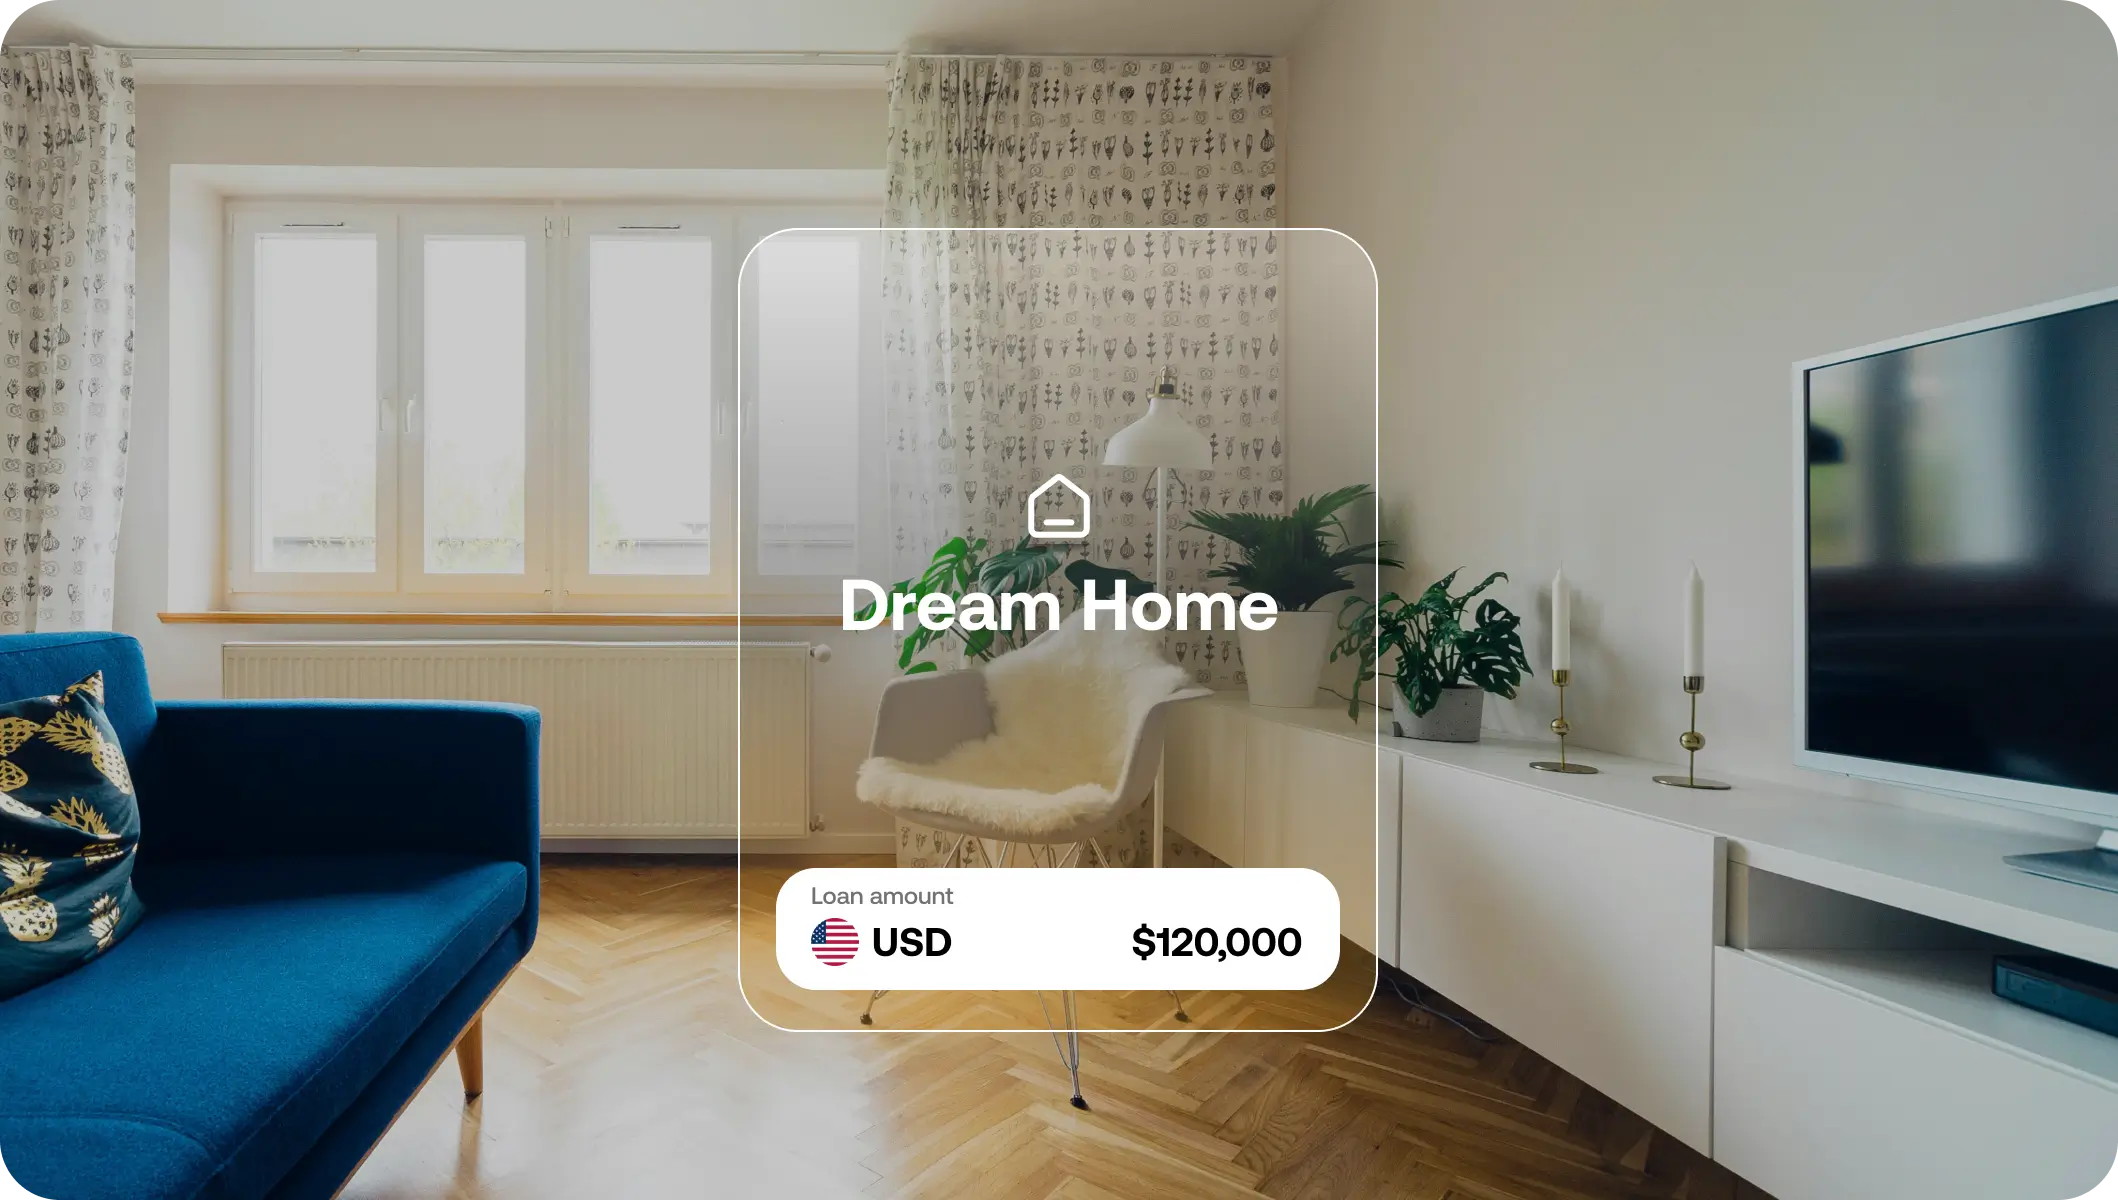
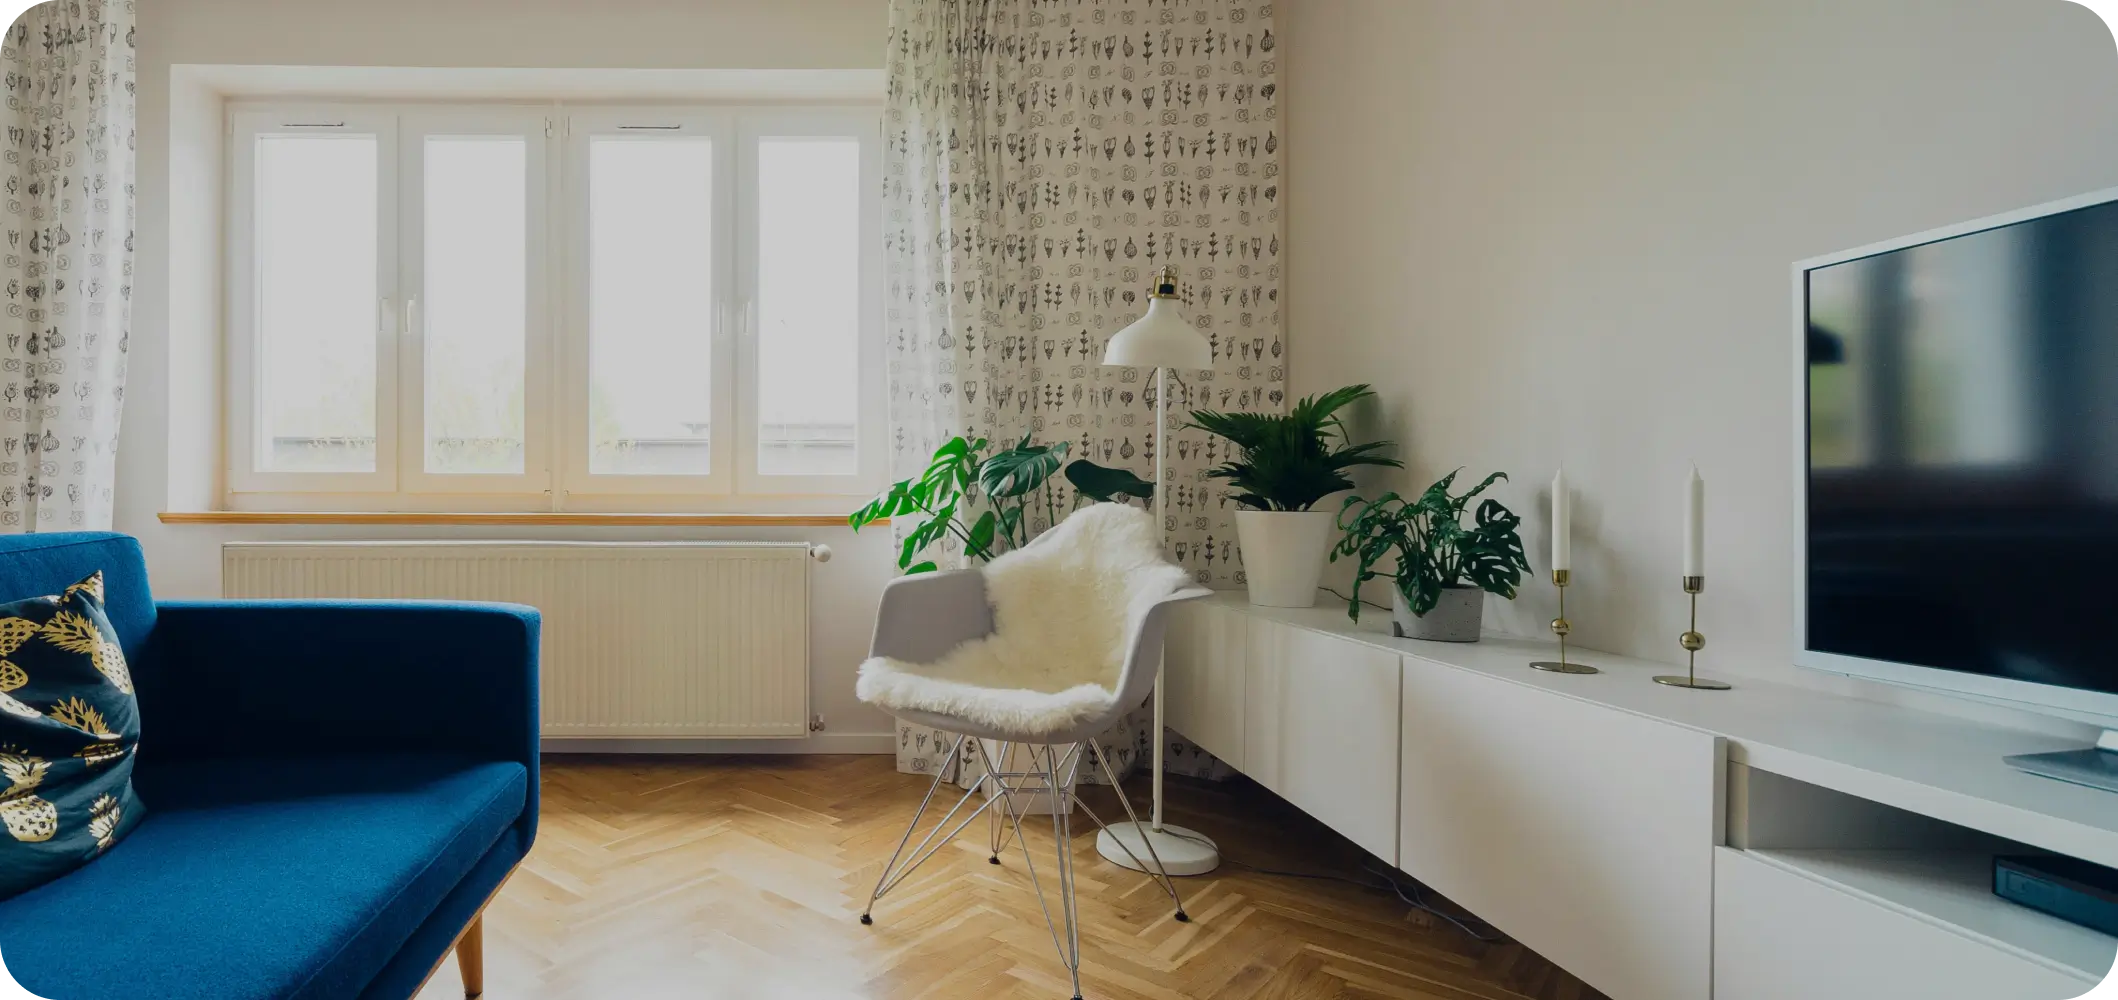
remove SectionEight component and update related sections; replace dream-home image with homepage-crossborder image

diff --git a/app/homepage/SectionFive.js b/app/homepage/SectionFive.js
@@ -1,39 +1,69 @@
-import React from 'react';
-import backgroundImage from '@/public/homepage-crossborder.webp';
-import sectionImage from '@/public/homepage-crossborder.webp';
-import Link from 'next/link';
-import Image from 'next/image';
+'use client';
 
+import React, { useEffect, useState } from 'react';
+import backgroundImage from '@/public/dream-home.webp';
+import Link from 'next/link';
 
 const SectionFive = () => {
+    const [offsetY, setOffsetY] = useState(0);
+
+    useEffect(() => {
+        const handleScroll = () => {
+            const scrollY = window.scrollY;
+            const section = document.getElementById('section-five');
+            if (!section) return;
+
+            const sectionTop = section.offsetTop;
+            const sectionHeight = section.offsetHeight;
+
+            // Only trigger parallax effect when scrolling in this section's range
+            if (scrollY >= sectionTop - window.innerHeight && scrollY <= sectionTop + sectionHeight) {
+                setOffsetY((scrollY - sectionTop) * 0.1); // Adjusted for subtle movement
+            }
+        };
+
+        window.addEventListener('scroll', handleScroll);
+        return () => window.removeEventListener('scroll', handleScroll);
+    }, []);
+
     return (
-        <section className='relative pt-14 pb-14 lg:pt-28 lg:pb-20 min-h-[calc(130vh-var(--mobile-header-height))] lg:min-h-[calc(100vh-var(--mobile-header-height))] flex flex-col lg:justify-center  bg-black text-white overflow-x-hidden'>
-            {/* <Image fill placeholder='blur' quality={100} sizes='100vw' src={backgroundImage} className='object-cover w-full h-full z-0' alt="Background Image" /> */}
-            <video className='hidden lg:block w-full h-full objectcover absolute top-0 left-0' width="100%" playsInline autoPlay muted loop controls={false}>
-                <source src='/sectionfourvideo.mp4' type="video/mp4" />
-                Your browser does not support the video tag.
-            </video>
-
-            <video className='block lg:hidden w-full absolute bottom-0 left-0' width="100%" playsInline autoPlay muted loop controls={false}>
-                <source src='/sectionfourvideo-mobile.mp4' type="video/mp4" />
-                Your browser does not support the video tag.
-            </video>
-
-            <div className='container md:flex md:items-center gap-10 relative z-10'>
-                <div className='flex justify-start'>
-                    <div className='p-4 md:p-0 md:w-[45%]'>
-                        <h2 className='uppercase font-black text-3xl sm:text-5xl md:text-[2.875rem] leading-none'>SEND MONEY ACROSS THE GLOBE WITH EASE</h2>
-                        <p className='leading-8 mt-8'>Join MyMonty's expat community and enjoy free P2P transfers to 160+ countries. Instantly send and receive money; globally, effortlessly.</p>
-                        <Link href="/transfers" className='mm-button white mt-8 mx-auto mb-10'>Try it Out</Link>
-                    </div>
-
+        <section
+            id="section-five"
+            className="bg-white pt-14 pb-14 lg:pt-28 lg:pb-20"
+        >
+            {/* Content */}
+            <div className="relative z-10 text-center px-4 h-full">
+                <div className='lg:w-1/2 mx-auto'>
+                    <h2 className="uppercase text-black font-black text-3xl sm:text-5xl md:text-[2.875rem] leading-none">
+                    TURN YOUR DREAM HOME INTO REALITY
+                    </h2>
+                    <p className="leading-8 mt-8 text-black">
+                    With MyMonty's house loans, your dream of owning a home is within reach. 
+                    Get the financial foundation you need for your perfect <span class="font-bold">HOME</span>.
+                    </p>
+                    <Link href="/loans" className="mm-button mt-8 mx-auto">
+                        Learn More
+                    </Link>
                 </div>
-                {/* <div className='justify-end flex pb-10 md:pb-0'>
-                    <Image src={sectionImage} alt='Section Image' placeholder='blur' className='w-full md:w-4/4 translate-x-[20%] 4xl:translate-x-0' />
-                </div> */}
+                <div className='container'>
+                    <div class="relative bg-black h-[500px] overflow-hidden rounded-3xl mt-12">
+                        <div
+                            className="absolute w-full h-[130%] bg-bottom z-0 will-change-transform"
+                            style={{
+                                backgroundImage: `url(${backgroundImage.src})`,
+                                transform: `translateY(${offsetY}px) scale(1.2)`,  // Parallax movement
+                                transition: 'transform 0.1s ease-out',
+                            }}
+                        ></div>
+
+                        <div className="absolute top-1/2 -translate-y-1/2 left-1/2 -translate-x-1/2 w-[300px] ">
+                            <img src='/sectionfive.webp' alt='Section Six Image' />
+                        </div>
+                    </div>
+                </div>
             </div>
         </section>
-    )
-}
+    );
+};
 
 export default SectionFive;

diff --git a/app/homepage/SectionSeven.js b/app/homepage/SectionSeven.js
@@ -1,26 +1,65 @@
-import React from 'react';
+'use client';
+
+import React, { useEffect, useState } from 'react';
+import backgroundImage from '@/public/sectionsixbg2.webp';
+import image1 from '@/public/sectionsix.webp';
+import Link from 'next/link';
 
 const SectionSeven = () => {
+    const [offsetY, setOffsetY] = useState(0);
+
+    useEffect(() => {
+        const handleScroll = () => {
+            const scrollY = window.scrollY;
+            const section = document.getElementById('section-six');
+            if (!section) return;
+
+            const sectionTop = section.offsetTop;
+            const sectionHeight = section.offsetHeight;
+
+            // Only trigger parallax effect when scrolling in this section's range
+            if (scrollY >= sectionTop - window.innerHeight && scrollY <= sectionTop + sectionHeight) {
+                setOffsetY((scrollY - sectionTop) * 0.1); // Adjusted for subtle movement
+            }
+        };
+
+        window.addEventListener('scroll', handleScroll);
+        return () => window.removeEventListener('scroll', handleScroll);
+    }, []);
+
     return (
-        <section className='pt-14 pb-14 lg:pt-40 lg:pb-40 bg-black text-white'>
-            <div className='container'>
-                <div className='flex flex-col-reverse gap-10 md:flex-row md:items-center md:gap-20'>
-                    <div className='relative section-video flex-1'>
-                        <video className=' mb-6' width="100%" playsInline autoPlay muted loop controls={false}>
-                            <source src='/rotating-card-2.mp4' type="video/mp4" />
-                            Your browser does not support the video tag.
-                        </video>
-                    </div>
-                    <div className='flex-1 flex justify-end'>
-                        <div>
-                            <h2 className='uppercase font-black text-3xl sm:text-5xl md:text-[2.875rem] leading-none'>HOLDING IT DOWN WITH OUR PREMIUM CARD?</h2>
-                            <p className='leading-8 mt-8'>Opt for our Premium Mastercard to elevate your style with a sleek design and exclusive benefits. Turn heads and add sophistication to your wallet experience.</p>
-                        </div>
-                    </div>
+        <section
+            id="section-six"
+            className="relative min-h-[calc(100vh-var(--mobile-header-height))] flex justify-center text-white overflow-hidden"
+        >
+            {/* Parallax Background Image */}
+            <div
+                className="absolute top-[-10%] left-0 w-full h-[120%] bg-cover bg-center z-0 will-change-transform"
+                style={{
+                    backgroundImage: `url(${backgroundImage.src})`,
+                    transform: `translateY(${offsetY}px)`,  // Parallax movement
+                    transition: 'transform 0.1s ease-out',
+                }}
+            />
+
+            {/* Content */}
+            <div className="pt-16 container relative z-10 text-center px-4">
+                <div className='lg:w-1/2 mx-auto'>
+                    <h2 className="uppercase text-black font-black text-3xl sm:text-5xl md:text-[2.875rem] leading-none">
+                        SET IT AND FORGET IT: PAYMENTS MADE EASY
+                    </h2>
+                    <p className="leading-8 mt-8 text-black">
+                        Never miss a payment again with our scheduled and recurring payment options. Enjoy peace of mind and stay on top of your finances.
+                    </p>
+                    <Link href="/payments" className="mm-button mt-8 mx-auto">
+                        Try It Out
+                    </Link>
+                    <img className='w-1/2 mt-24 mx-auto' src='/sectionsix.webp' alt='Section Six Image' />
                 </div>
+                
             </div>
         </section>
-    )
-}
+    );
+};
 
 export default SectionSeven;

diff --git a/app/homepage/SectionFour.js b/app/homepage/SectionFour.js
@@ -1,24 +1,36 @@
 import React from 'react';
-import sectionImage from '@/public/dream-home.webp';
+import backgroundImage from '@/public/homepage-crossborder.webp';
+import sectionImage from '@/public/homepage-crossborder.webp';
 import Link from 'next/link';
 import Image from 'next/image';
 
 
 const SectionFour = () => {
     return (
-        <section className='bg-white pt-14 pb-14 lg:pt-28 lg:pb-28'>
-            <div className='container text-center'>
-                <h2 className='uppercase font-black text-3xl sm:text-5xl md:text-[2.875rem] leading-none'>TURN YOUR DREAM HOME INTO REALITY</h2>
-                <div className='lg:w-1/2 mx-auto'>
-                    <p className='leading-8 mt-8'>With MyMonty's house loans, your dream of owning a home is within reach. 
-                    Get the financial foundation you need for your perfect <span class="font-bold">HOME</span>.</p>
-                </div>
-                <Link href="/loans" className='mm-button black mt-8 mx-auto mb-10'>Learn More</Link>
-                
-                <div className='text-center'>
-                    <Image alt="Section Image" src={sectionImage} className='mx-auto mt-14' />
-                </div>
+        <section className='relative pt-14 pb-14 lg:pt-28 lg:pb-20 min-h-[calc(130vh-var(--mobile-header-height))] lg:min-h-[calc(100vh-var(--mobile-header-height))] flex flex-col lg:justify-center  bg-black text-white overflow-x-hidden'>
+            {/* <Image fill placeholder='blur' quality={100} sizes='100vw' src={backgroundImage} className='object-cover w-full h-full z-0' alt="Background Image" /> */}
+            <video className='hidden lg:block w-full h-full objectcover absolute top-0 left-0' width="100%" playsInline autoPlay muted loop controls={false}>
+                <source src='/sectionfourvideo.mp4' type="video/mp4" />
+                Your browser does not support the video tag.
+            </video>
 
+            <video className='block lg:hidden w-full absolute bottom-0 left-0' width="100%" playsInline autoPlay muted loop controls={false}>
+                <source src='/sectionfourvideo-mobile.mp4' type="video/mp4" />
+                Your browser does not support the video tag.
+            </video>
+
+            <div className='container md:flex md:items-center gap-10 relative z-10'>
+                <div className='flex justify-start'>
+                    <div className='p-4 md:p-0 md:w-[45%]'>
+                        <h2 className='uppercase font-black text-3xl sm:text-5xl md:text-[2.875rem] leading-none'>SEND MONEY ACROSS THE GLOBE WITH EASE</h2>
+                        <p className='leading-8 mt-8'>Join MyMonty's expat community and enjoy free P2P transfers to 160+ countries. Instantly send and receive money; globally, effortlessly.</p>
+                        <Link href="/transfers" className='mm-button white mt-8 mx-auto mb-10'>Try it Out</Link>
+                    </div>
+
+                </div>
+                {/* <div className='justify-end flex pb-10 md:pb-0'>
+                    <Image src={sectionImage} alt='Section Image' placeholder='blur' className='w-full md:w-4/4 translate-x-[20%] 4xl:translate-x-0' />
+                </div> */}
             </div>
         </section>
     )

diff --git a/app/homepage/SectionSix.js b/app/homepage/SectionSix.js
@@ -1,28 +1,22 @@
 import React from 'react';
-import backgroundImage from '@/public/sectionsixbg.webp';
-import backgroundImage1 from '@/public/sectionsixbg1.webp';
-import Link from 'next/link';
-import Image from 'next/image';
 
 const SectionSix = () => {
     return (
-        <section className='flex items-center pb-14 pt-14 lg:pt-20 lg:pb-20 bg-black relative text-black min-h-[calc(100vh-var(--mobile-header-height))]'>
-            {/* <Image fill placeholder='blur' quality={100} sizes='100vw' src={backgroundImage1} className='object-cover z-0' alt="Background Image" /> */}
-            <video className='w-full h-full object-cover absolute top-0 left-0' width="100%" playsInline autoPlay muted loop controls={false}>
-                <source src='/house-loan.mp4' type="video/mp4" />
-                Your browser does not support the video tag.
-            </video>
+        <section className='pt-14 pb-14 lg:pt-40 lg:pb-40 bg-black text-white'>
             <div className='container'>
-                <div className='flex items-center relative z-10'>
-                    <div className='md:flex-1 md:flex relative text-center'>
-                        <div className='md:w-1/2 mx-auto'>
-                            <h2 className='uppercase font-black text-3xl sm:text-5xl md:text-[2.875rem] leading-none'>TURN YOUR DREAM HOME INTO REALITY</h2>
-                            <p className='leading-8 mt-8'>With MyMonty's house loans, your dream of owning a home is within reach.<br />
-                                Get the financial foundation you need for your perfect <strong>HOME.</strong></p>
-                            <Link href="/house-loan" className='mm-button black mt-8 mx-auto'>Learn More</Link>
+                <div className='flex flex-col-reverse gap-10 md:flex-row md:items-center md:gap-20'>
+                    <div className='relative section-video flex-1'>
+                        <video className=' mb-6' width="100%" playsInline autoPlay muted loop controls={false}>
+                            <source src='/rotating-card-2.mp4' type="video/mp4" />
+                            Your browser does not support the video tag.
+                        </video>
+                    </div>
+                    <div className='flex-1 flex justify-end'>
+                        <div>
+                            <h2 className='uppercase font-black text-3xl sm:text-5xl md:text-[2.875rem] leading-none'>HOLDING IT DOWN WITH OUR PREMIUM CARD?</h2>
+                            <p className='leading-8 mt-8'>Opt for our Premium Mastercard to elevate your style with a sleek design and exclusive benefits. Turn heads and add sophistication to your wallet experience.</p>
                         </div>
                     </div>
-
                 </div>
             </div>
         </section>

diff --git a/app/page.js b/app/page.js
@@ -4,7 +4,6 @@ import SectionFour from './homepage/SectionFour';
 import SectionFive from './homepage/SectionFive';
 import SectionSix from './homepage/SectionSix';
 import SectionSeven from './homepage/SectionSeven';
-import SectionEight from './homepage/SectionEight';
 import HomeBanner from './homepage/HomeBanner';
 
 export const metadata = {
@@ -23,7 +22,6 @@ export default function Home() {
       <SectionFive />
       <SectionSix />
       <SectionSeven />
-      <SectionEight />
     </main>
   )
 }
